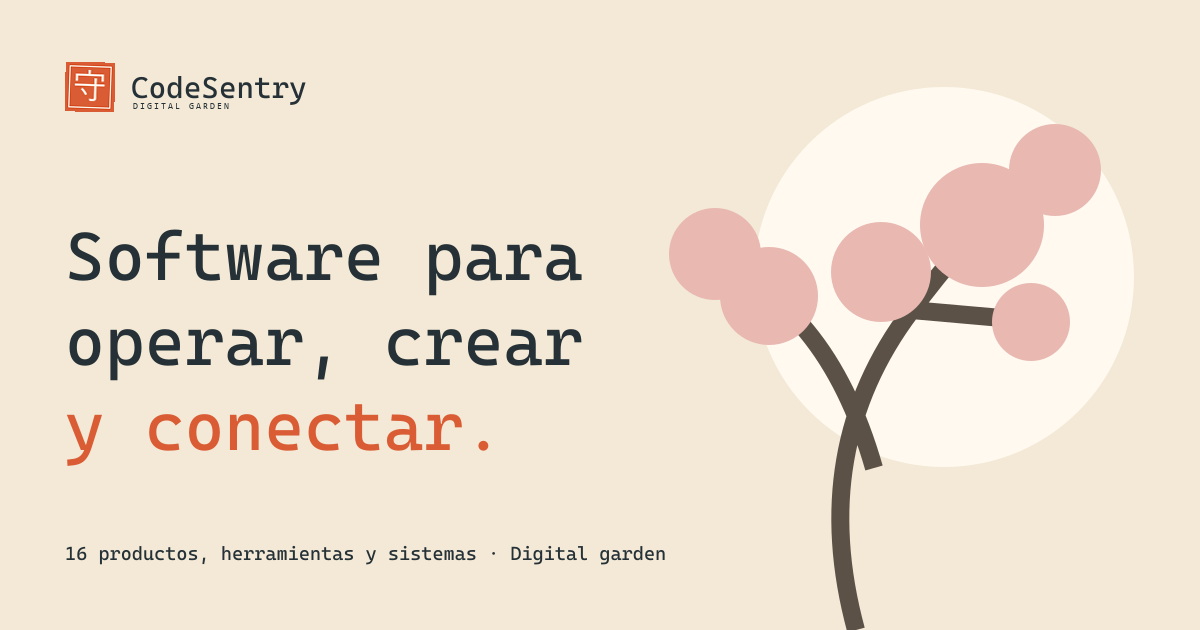
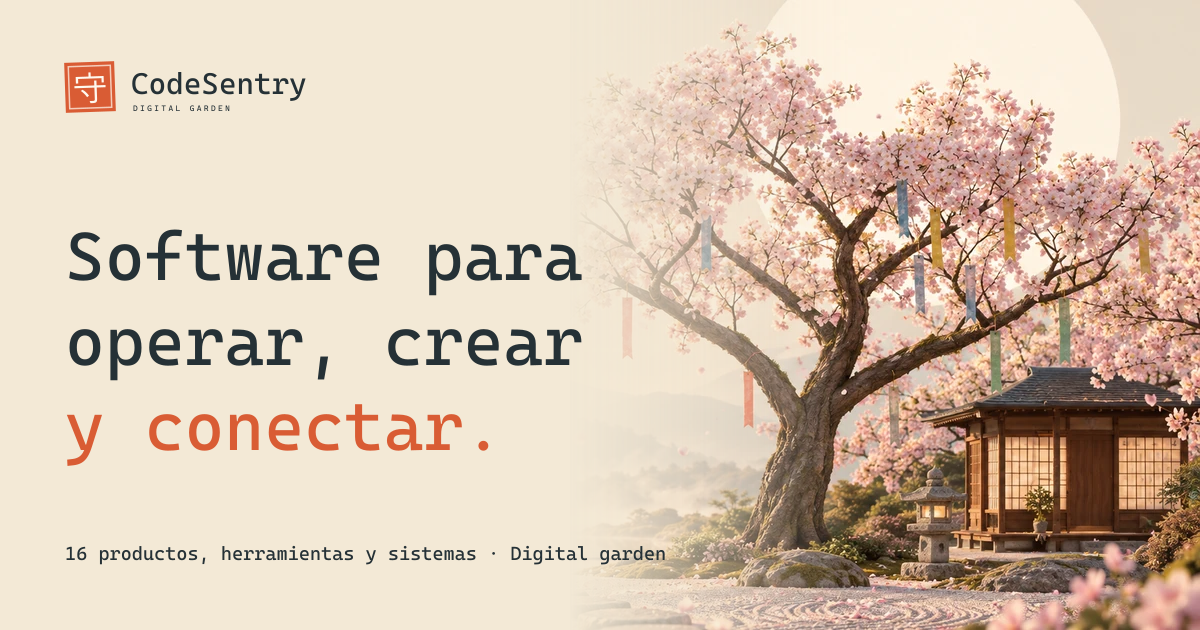
Refresh the social garden artwork

diff --git a/docs/asset-credits.md b/docs/asset-credits.md
@@ -40,6 +40,10 @@ Las capturas seleccionadas no muestran expedientes, clientes identificados, cred
 
 El sakura 3D, su corteza procedural y sus flores son geometría original de esta web. No se distribuye una ilustración estática alternativa del árbol. No utiliza modelos ni texturas externos.
 
+The social card (`social.png`) reinterprets this scene with photorealistic-style artwork. Its master background and vector type overlay are kept in `tools/media/social-garden-background.webp` and `tools/media/social-overlay.svg`; `tools/prepare-media.mjs` composites them into the public asset.
+
+La tarjeta social (`social.png`) reinterpreta esta escena con una imagen de estilo fotorrealista. El fondo maestro y la capa tipográfica vectorial se conservan en `tools/media/social-garden-background.webp` y `tools/media/social-overlay.svg`; `tools/prepare-media.mjs` los compone para producir el recurso público.
+
 El jardín 3D de `garden-environment.ts` también usa geometría original: montañas, luna, suelo de arena, piedras, hierbas, casa de un solo techo y farol. Comparte la cámara del sakura para producir perspectiva y paralaje durante el recorrido.
 
 ## Decoraciones del estudio

diff --git a/CHANGELOG.md b/CHANGELOG.md
@@ -9,3 +9,7 @@ Notable changes to CodeSentry. The site is continuously deployed from main; SemV
 - Expanded both READMEs with project, development, versioning, and deployment guidance. / Se ampliaron ambos README con información del proyecto, desarrollo, versionado y despliegue.
 - Added a bilingual security policy and enabled private vulnerability reporting on GitHub. / Se añadió una política de seguridad bilingüe y se habilitó el reporte privado de vulnerabilidades en GitHub.
 - Added the project copyright notice to the Apache-2.0 license file. / Se añadieron los avisos de titularidad del proyecto al archivo de licencia Apache-2.0.
+
+### Visuals / Recursos visuales
+
+- Reworked the social card with a detailed, realistic garden scene. / Se renovó la tarjeta social con una escena detallada y realista del jardín.\n
